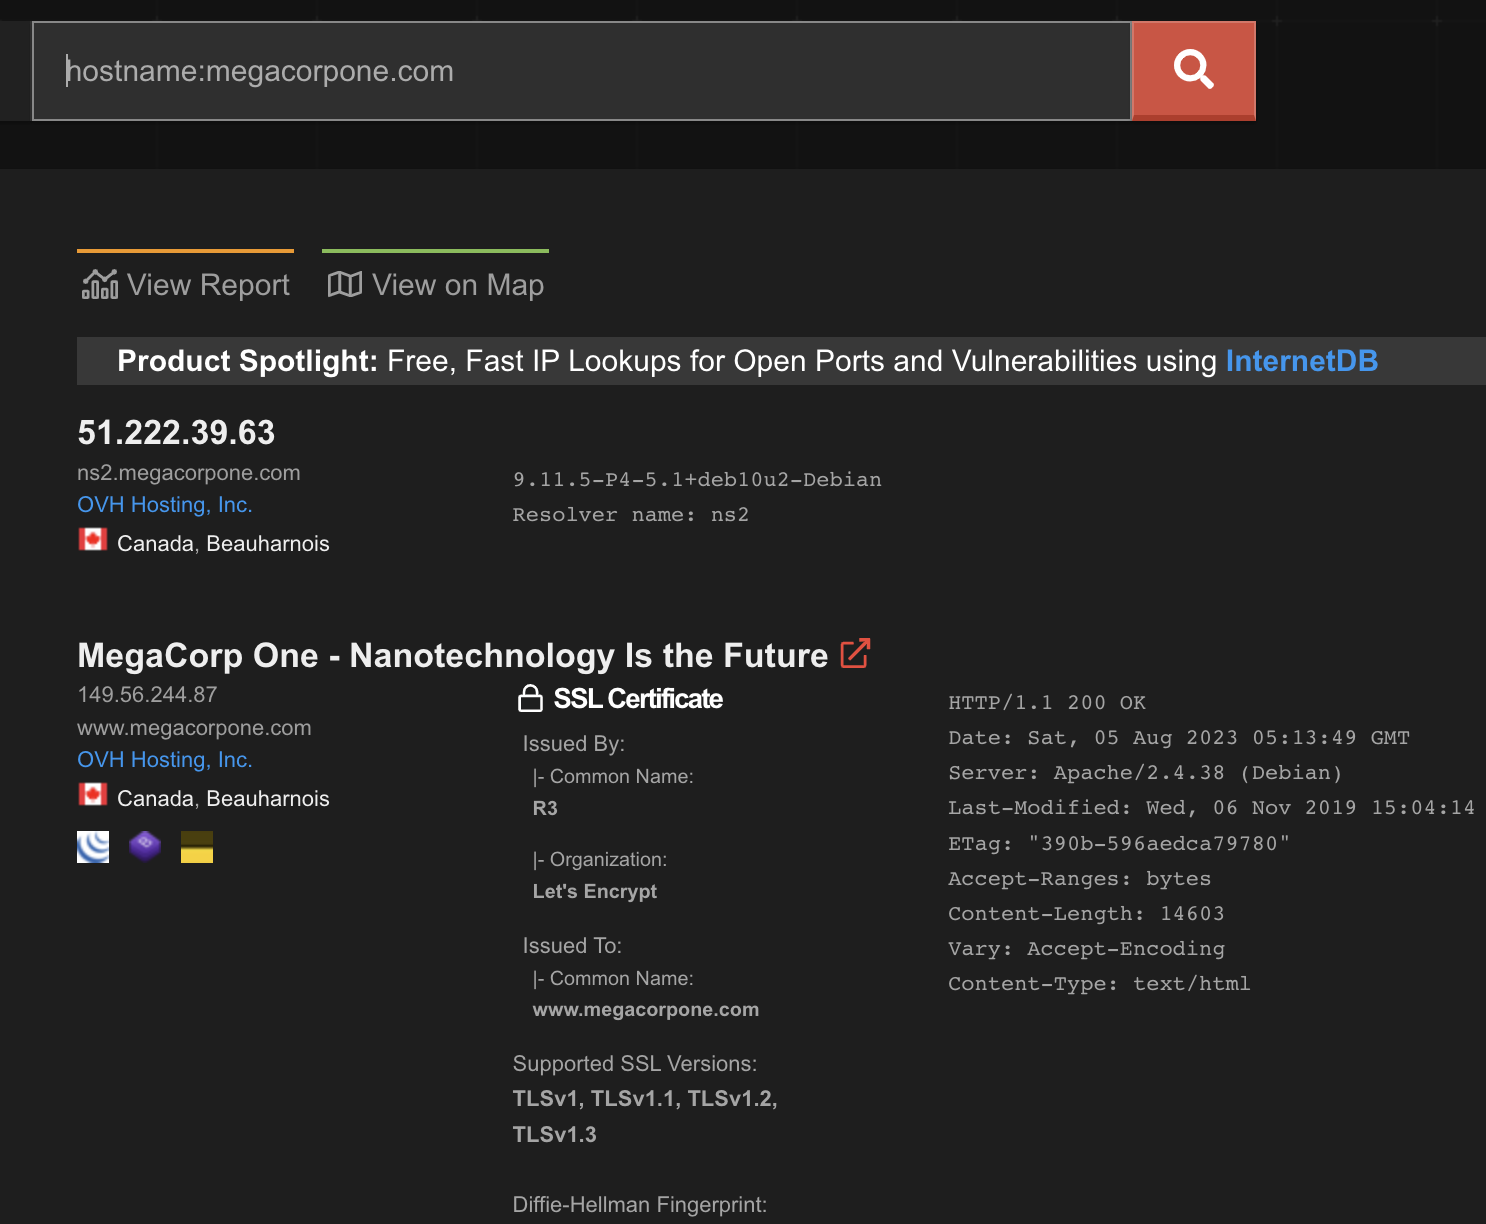
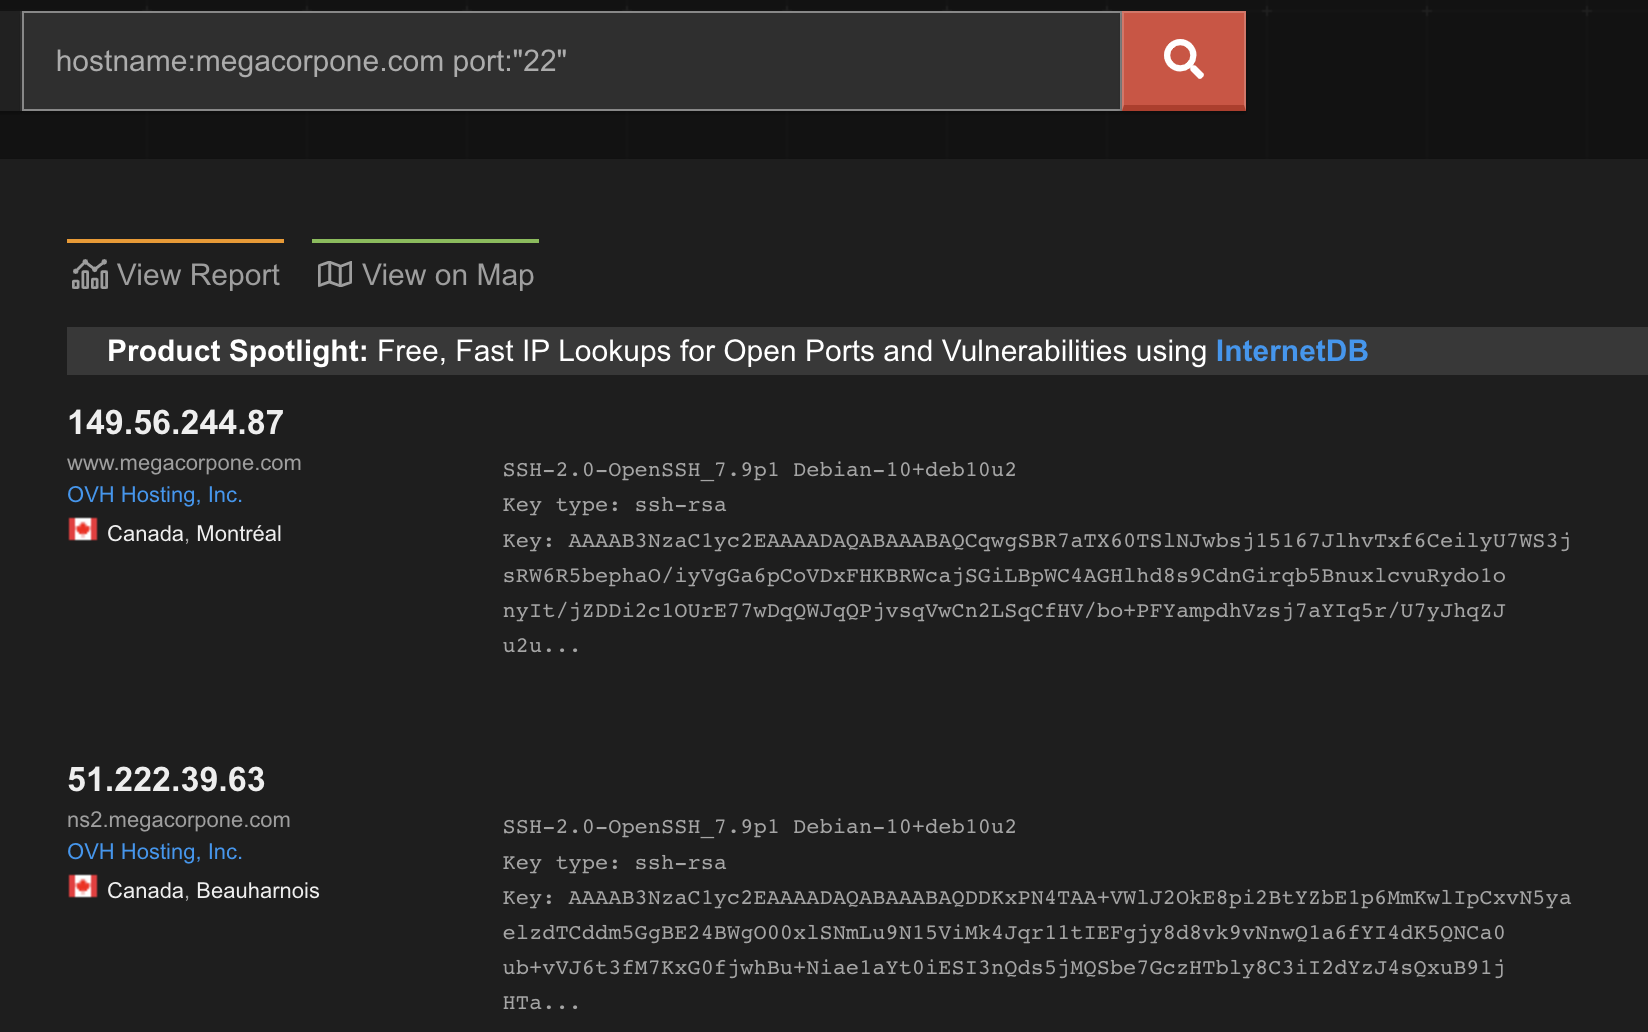
shodan edit

diff --git a/_posts/2023-08-07-shodan.md b/_posts/2023-08-07-shodan.md
@@ -10,3 +10,5 @@ shodan will gather information passively about the site
 
 ![_config.yml]({{ site.baseurl }}/images/info_gathering/shodan.png)
 
+we can look at ports and services - here we identify ssh by the port number and can examine the version of openssh
+
